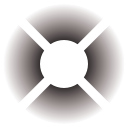
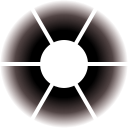
Add splitter and merger build commands to the radial menu

diff --git a/js/App.svelte b/js/App.svelte
@@ -76,6 +76,8 @@
     const RADIAL_MENU_BUILD = [
         {caption: "Power Grid", event: 'buildPowerGrid', icon: buildPowerGridIcon},
         {caption: "Conveyor", event: 'buildConveyor', icon: buildConveyorIcon},
+        {caption: "Splitter", event: 'buildSplitter', icon: buildSplitterIcon},
+        {caption: "Merger", event: 'buildMerger', icon: buildMergerIcon},
         {caption: "Building", event: 'buildBuilding', icon: buildBuildingIcon},
         {caption: "Deconstruct", event: 'deconstruct', icon: deconstructIcon},
     ];
@@ -127,7 +129,8 @@
         infoResult = game.get_info(x, y);
         if (buildingConveyor) {
             try {
-                game.preview_build_conveyor(buildingConveyor[0], buildingConveyor[1], x, y, true);
+                const [ix, iy] = game.transform_coords(x, y);
+                game.preview_build_conveyor(buildingConveyor[0], buildingConveyor[1], ix, iy, true);
             }
             catch (e) {
                 console.error(`build_conveyor: ${e}`);
@@ -270,13 +273,9 @@
         }
 
         if (buildingConveyor) {
-            try {
-                game.preview_build_conveyor(buildingConveyor[0], buildingConveyor[1], x, y, false);
-                buildingConveyor = [x, y];
-            }
-            catch (e) {
-                console.error(`build_conveyor: ${e}`);
-            }
+            const [ix, iy] = game.transform_coords(x, y);
+            game.preview_build_conveyor(buildingConveyor[0], buildingConveyor[1], ix, iy, false);
+            buildingConveyor = [ix, iy];
             return;
         }
 
@@ -311,11 +310,13 @@
         }
         else if (name === "splitter") {
             enterConveyorEdit();
-            game.build_splitter(x, y);
+            const [ix, iy] = game.transform_coords(x, y);
+            game.build_splitter(ix, iy);
         }
         else if (name === "merger") {
             enterConveyorEdit();
-            game.build_merger(x, y);
+            const [ix, iy] = game.transform_coords(x, y);
+            game.build_merger(ix, iy);
         }
         else if (name === "build") {
             showBuildBuildingMenu(game.transform_coords(x, y));
@@ -451,16 +452,16 @@
     function buildMenu(evt) {
         let [x, y] = radialScreenPos;
         if (game.find_construction(radialPos[0], radialPos[1])) {
-            RADIAL_MENU_BUILD[3].grayed = false;
-            RADIAL_MENU_BUILD[3].caption = "Cancel Build";
-            RADIAL_MENU_BUILD[3].event = "cancelBuild";
-            RADIAL_MENU_BUILD[3].icon = cancelBuildIcon;
+            RADIAL_MENU_BUILD[5].grayed = false;
+            RADIAL_MENU_BUILD[5].caption = "Cancel Build";
+            RADIAL_MENU_BUILD[5].event = "cancelBuild";
+            RADIAL_MENU_BUILD[5].icon = cancelBuildIcon;
         }
         else {
-            RADIAL_MENU_BUILD[3].grayed = !game.find_building(radialPos[0], radialPos[1]);
-            RADIAL_MENU_BUILD[3].caption = "Deconstruct";
-            RADIAL_MENU_BUILD[3].event = "deconstruct";
-            RADIAL_MENU_BUILD[3].icon = deconstructIcon;
+            RADIAL_MENU_BUILD[5].grayed = !game.find_building(radialPos[0], radialPos[1]);
+            RADIAL_MENU_BUILD[5].caption = "Deconstruct";
+            RADIAL_MENU_BUILD[5].event = "deconstruct";
+            RADIAL_MENU_BUILD[5].icon = deconstructIcon;
         }
         showRadialMenu = RADIAL_MENU_BUILD;
         positionRadialMenu(x + 64, y);
@@ -475,9 +476,23 @@
 
     function buildConveyor() {
         showRadialMenu = false;
-        let [x, y] = radialScreenPos;
+        let [x, y] = radialPos;
         enterConveyorEdit();
         buildingConveyor = [x, y];
+    }
+
+    function buildSplitter() {
+        showRadialMenu = false;
+        let [x, y] = radialPos;
+        enterConveyorEdit();
+        game.build_splitter(x, y);
+    }
+
+    function buildMerger() {
+        showRadialMenu = false;
+        let [x, y] = radialPos;
+        enterConveyorEdit();
+        game.build_merger(x, y);
     }
 
     function showBuildBuildingMenu(pos) {
@@ -584,6 +599,8 @@
             on:buildPowerGrid={buildPowerGrid}
             on:buildConveyor={buildConveyor}
             on:buildBuilding={commandBuildBuildingMenu}
+            on:buildSplitter={buildSplitter}
+            on:buildMerger={buildMerger}
             on:deconstruct={commandDeconstruct}
             on:cancelBuild={commandCancelBuild}/>
     {/if}

diff --git a/js/RadialMenu.svelte b/js/RadialMenu.svelte
@@ -17,10 +17,12 @@
         {caption: "Build", event: 'build', icon: build},
     ];
     export let itemPositions = [
-        ["50%", "20%"],
-        ["20%", "50%"],
-        ["80%", "50%"],
-        ["50%", "80%"],
+        ["50%", "15%"],
+        ["20%", "35%"],
+        ["80%", "35%"],
+        ["20%", "65%"],
+        ["80%", "65%"],
+        ["50%", "85%"],
     ];
 
     function itemFilter(item) {
@@ -81,7 +83,7 @@
         right: 0;
         bottom: 0;
         background-size: 256px 256px;
-        animation: 0.25s ease-out 0.125s 1 both running scaleup;
+        animation: 0.15s ease-out 0.075s 1 both running scaleup;
     }
 
     @keyframes scaleup {

diff --git a/wasm/src/conveyor.rs b/wasm/src/conveyor.rs
@@ -1,37 +1,29 @@
 use wasm_bindgen::prelude::*;
 
-use crate::{render::TILE_SIZE, AsteroidColonies};
+use crate::AsteroidColonies;
 
 #[wasm_bindgen]
 impl AsteroidColonies {
     /// Preview or stage conveyor build plan.
     pub fn preview_build_conveyor(
         &mut self,
-        x0: f64,
-        y0: f64,
-        x1: f64,
-        y1: f64,
+        x0: i32,
+        y0: i32,
+        x1: i32,
+        y1: i32,
         preview: bool,
     ) -> Result<(), JsValue> {
-        let ix0 = (x0 - self.viewport.offset[0]).div_euclid(TILE_SIZE) as i32;
-        let iy0 = (y0 - self.viewport.offset[1]).div_euclid(TILE_SIZE) as i32;
-        let ix1 = (x1 - self.viewport.offset[0]).div_euclid(TILE_SIZE) as i32;
-        let iy1 = (y1 - self.viewport.offset[1]).div_euclid(TILE_SIZE) as i32;
         self.game
-            .preview_build_conveyor(ix0, iy0, ix1, iy1, preview)
+            .preview_build_conveyor(x0, y0, x1, y1, preview)
             .map_err(JsValue::from)
     }
 
-    pub fn build_splitter(&mut self, x: f64, y: f64) {
-        let ix0 = (x - self.viewport.offset[0]).div_euclid(TILE_SIZE) as i32;
-        let iy0 = (y - self.viewport.offset[1]).div_euclid(TILE_SIZE) as i32;
-        self.game.build_splitter(ix0, iy0);
+    pub fn build_splitter(&mut self, x: i32, y: i32) {
+        self.game.build_splitter(x, y);
     }
 
-    pub fn build_merger(&mut self, x: f64, y: f64) {
-        let ix0 = (x - self.viewport.offset[0]).div_euclid(TILE_SIZE) as i32;
-        let iy0 = (y - self.viewport.offset[1]).div_euclid(TILE_SIZE) as i32;
-        self.game.build_merger(ix0, iy0);
+    pub fn build_merger(&mut self, x: i32, y: i32) {
+        self.game.build_merger(x, y);
     }
 
     pub fn cancel_build_conveyor(&mut self, preview: bool) {
